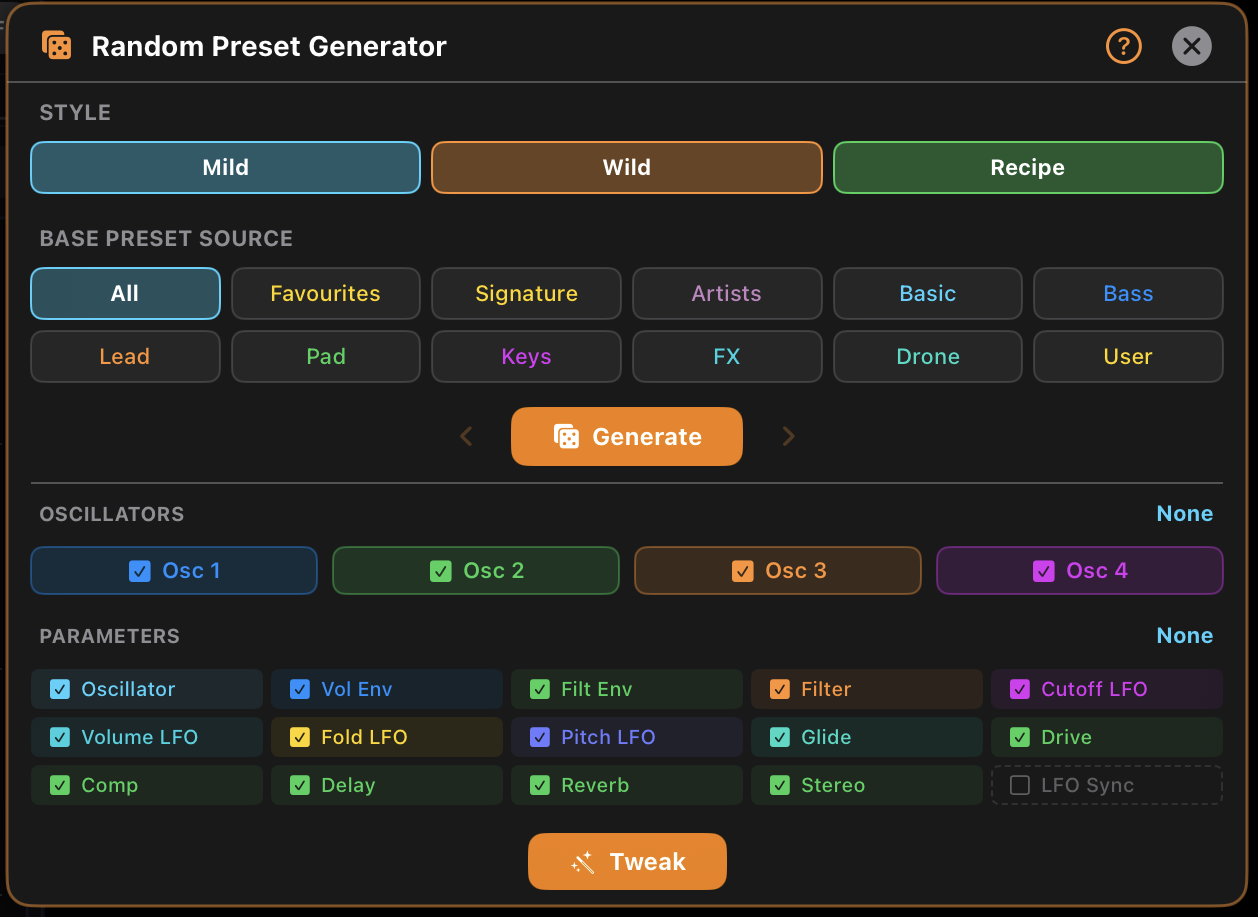
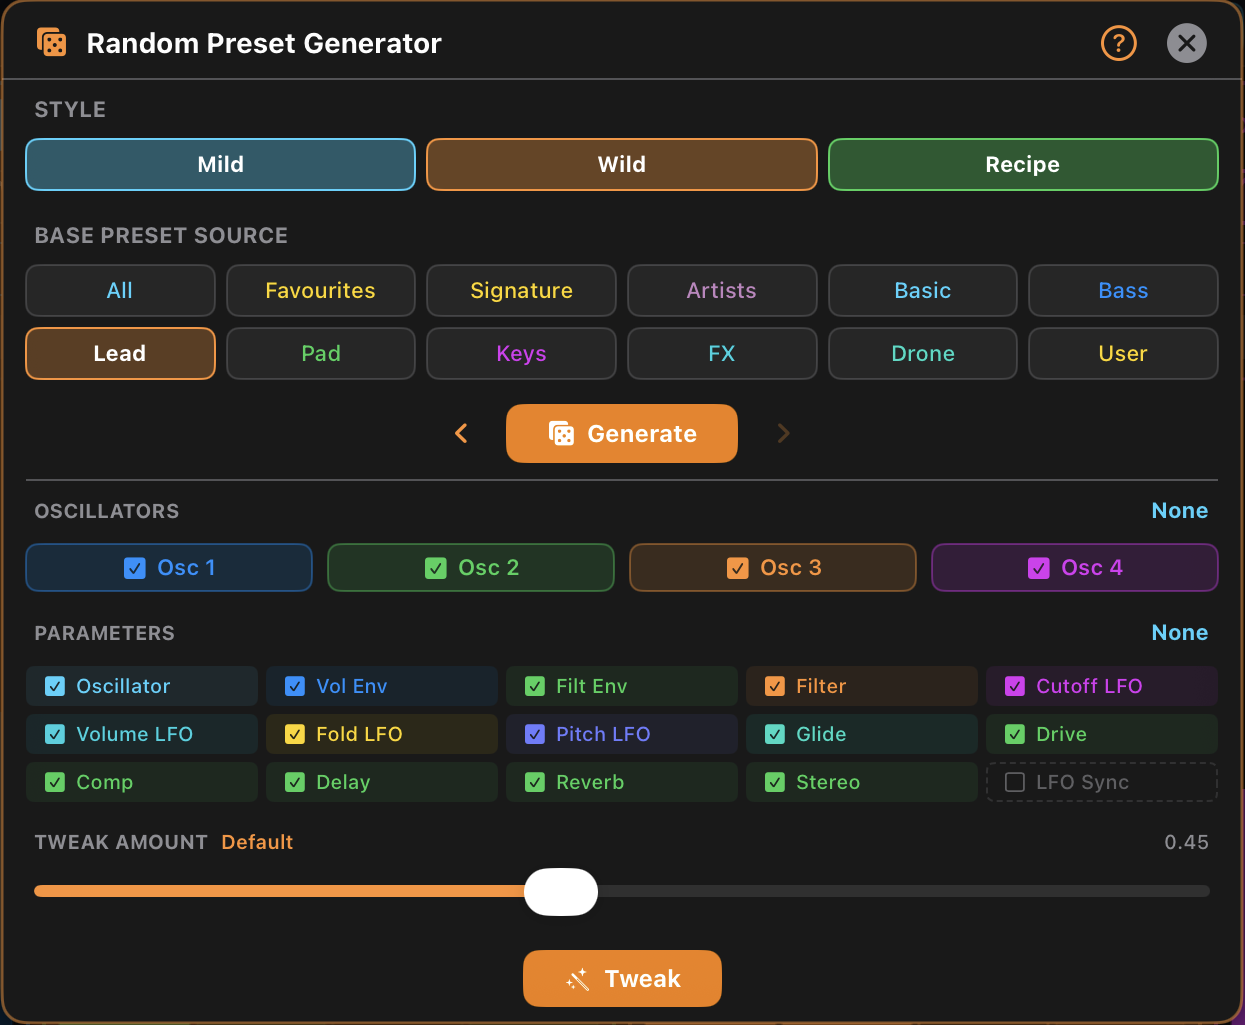
Marco manual: document Tweak Amount as 13.7, mirroring Bruno manual
- New 13.7 Tweak Amount subsection after LFO Sync, matching dialog order: nudge behaviour, strength labels, 0.45 default snap, scope across dialog Tweak and all wands, persistence and AUv3 exposure
- Renumber Category behaviours/Master/History to 13.8-13.10, update TOC and cross-references
- Link Tweak Amount from the 13.2 systems table

diff --git a/marcomanual.html b/marcomanual.html
@@ -72,9 +72,10 @@
         <li><a href="#random">13. Random Preset Generator</a></li>
         <li class="subsection"><a href="#styles">13.1 Styles (Mild/Wild/Recipe)</a></li>
         <li class="subsection"><a href="#three-systems">13.2 Three ways to randomise</a></li>
-        <li class="subsection"><a href="#category-modes">13.7 Category behaviours</a></li>
-        <li class="subsection"><a href="#master-randomisation">13.8 Master &amp; Randomisation</a></li>
-        <li class="subsection"><a href="#rpg-history">13.9 Random Preset History</a></li>
+        <li class="subsection"><a href="#tweak-amount">13.7 Tweak Amount</a></li>
+        <li class="subsection"><a href="#category-modes">13.8 Category behaviours</a></li>
+        <li class="subsection"><a href="#master-randomisation">13.9 Master &amp; Randomisation</a></li>
+        <li class="subsection"><a href="#rpg-history">13.10 Random Preset History</a></li>
         <li><a href="#scope">14. Scope</a></li>
         <li><a href="#xy-pad">15. XY Pad</a></li>
         <li><a href="#app-preferences">16. App Preferences</a></li>
@@ -674,7 +675,7 @@
         </ul>
 
         <div class="callout note">
-          <strong>The Master tab can be tweaked.</strong> Generate changes the Master chain indirectly — it first loads a random base preset, so that preset's Master settings come with it. The Tweak system can also target the Master tab directly: use the Tweak section of the Random Preset Generator dialog, or tap the wand button on any section of the Master tab to tweak just that section. See <a href="#master-randomisation">13.8 Master and Randomisation</a> for full details.
+          <strong>The Master tab can be tweaked.</strong> Generate changes the Master chain indirectly — it first loads a random base preset, so that preset's Master settings come with it. The Tweak system can also target the Master tab directly: use the Tweak section of the Random Preset Generator dialog, or tap the wand button on any section of the Master tab to tweak just that section. See <a href="#master-randomisation">13.9 Master and Randomisation</a> for full details.
         </div>
       </section>
 
@@ -762,7 +763,7 @@
             <tr>
               <td>Tweak</td>
               <td>Wand button in the Random Preset dialog</td>
-              <td>Mutates the <strong>currently loaded sound</strong>. Only affects the oscillators and parameters you've toggled on in the dialog. Uses wide, default ranges (no category-specific tuning).</td>
+              <td>Mutates the <strong>currently loaded sound</strong>. Only affects the oscillators and parameters you've toggled on in the dialog, at the strength set by the <a href="#tweak-amount">Tweak Amount</a> slider. Uses wide, default ranges (no category-specific tuning).</td>
             </tr>
             <tr>
               <td>Per-Osc Tweak</td>
@@ -788,7 +789,7 @@
 
         <h3 id="base-source">13.4 Base Preset Source</h3>
         <p>The top of the dialog chooses which category Marco draws inspiration from when Generate rolls a new sound. Any of the factory categories (<strong>Basic, Bass, Lead, Pad, Keys, FX, Drone</strong>), the curated <strong>Signature</strong> and <strong>Artists</strong> sets, plus <strong>All</strong>, <strong>Favourites</strong> and <strong>User</strong>.</p>
-        <p>Each category isn't just a filter for the base preset — it also shapes <em>how</em> Generate builds the sound. See <a href="#category-modes">13.7 Category behaviours</a> below.</p>
+        <p>Each category isn't just a filter for the base preset — it also shapes <em>how</em> Generate builds the sound. See <a href="#category-modes">13.8 Category behaviours</a> below.</p>
 
         <h3 id="targeting">13.5 Oscillator &amp; Parameter Targeting</h3>
         <p>Only <strong>Tweak</strong> respects these two sets of toggles — Generate ignores them and always rolls a complete new preset:</p>
@@ -801,7 +802,19 @@
         <h3 id="lfo-sync">13.6 LFO Sync</h3>
         <p>A separate <strong>LFO Sync</strong> toggle lets you choose whether LFO rates get tempo-synced when <strong>Tweak</strong> changes them. Turn it on for in-time modulation; leave it off for free-running LFOs.</p>
 
-        <h3 id="category-modes">13.7 Category behaviours (Generate only)</h3>
+        <h3 id="tweak-amount">13.7 Tweak Amount</h3>
+        <p>Below the targeting toggles sits the <strong>Tweak Amount</strong> slider. Tweak is a <em>nudge</em>, not a re-roll — each press moves the current values a fraction of the way toward a fresh roll, and this slider sets how big that fraction is. Slide left for tiny refinements, right for bold shifts. The word beside the title names the current strength as you drag:</p>
+        <table class="param-table">
+          <thead><tr><th>Strength</th><th>Feel</th></tr></thead>
+          <tbody>
+            <tr><td>Minimal / Subtle</td><td>Barely-there refinements — polish a sound you already like without risking its character.</td></tr>
+            <tr><td>Medium / Default</td><td>The standard feel (the slider snaps back to <span class="ui">Default · 0.45</span> so you can always return to it). Clearly audible movement that still respects the sound.</td></tr>
+            <tr><td>Large / Extra Large / Max</td><td>Bold shifts — each press takes the sound most of the way to a fresh roll while keeping its broad shape.</td></tr>
+          </tbody>
+        </table>
+        <p>This one setting governs <strong>every</strong> Tweak in Marco: the dialog's Tweak button, the per-oscillator wand in each column header, and the wands on the Master sections. Repeated presses compound at the chosen strength, so a low amount lets you creep a sound in a direction one careful pass at a time, while a high amount gets somewhere new in a press or two. The value is remembered across sessions, and in the AUv3 plugin it's also exposed as an AU parameter your host can automate or MIDI-map. Every step still lands in the <a href="#rpg-history">Random Preset History</a>, so you can walk back through your tweaks whatever the amount.</p>
+
+        <h3 id="category-modes">13.8 Category behaviours (Generate only)</h3>
         <p>On top of the Style you pick, the chosen category shapes the result. For the <strong>Mild</strong> and <strong>Wild</strong> Styles the generator tunes the sound to suit the category; the <strong>Recipe</strong> Style draws on archetypes built for that category. Each category is designed to give you results that sound like that category — the table below shows what to expect from each, so you can choose deliberately.</p>
 
         <table class="param-table">
@@ -823,7 +836,7 @@
           <strong>Variations on your own sounds.</strong> If you want variations on a sound rather than something brand-new, set the Base Preset Source to <strong>User</strong> or <strong>Favourites</strong> and tap Generate a few times. You'll get versions of an existing sound, not random new ones — perfect for finding sibling presets without losing the original character. Note: if the chosen category is empty (e.g. you haven't saved any User presets or starred any Favourites yet), Marco falls back to the <strong>All</strong> category.
         </div>
 
-        <h3 id="master-randomisation">13.8 Master Section and Randomisation</h3>
+        <h3 id="master-randomisation">13.9 Master Section and Randomisation</h3>
         <div class="callout note">
           <strong>Generate doesn't roll the Master chain from scratch, but the Tweak system can target it.</strong> A fresh Generate never randomises Drive, Compressor, Delay, Reverb, Stereo and Limiter directly — but you can tweak them deliberately whenever you want to.
         </div>
@@ -834,7 +847,7 @@
           <strong>Workflow example.</strong> Like the master chain of your current preset but want a different rhythmic feel? Untick everything except <strong>Glide</strong> and <strong>Cutoff LFO</strong>, then tap Tweak a few times — fresh movement, same sonic base, untouched effects.
         </div>
 
-        <h3 id="rpg-history">13.9 Random Preset History</h3>
+        <h3 id="rpg-history">13.10 Random Preset History</h3>
         <p>Randomisation is meant to be explored fearlessly — so Marco remembers where you've been. Every result from all three systems is pushed to a shared <strong>history</strong> of the last <strong>100</strong> randomised and tweaked sounds, and you can step back and forward through them at any time.</p>
 
         <p>These actions add an entry to the history:</p>
